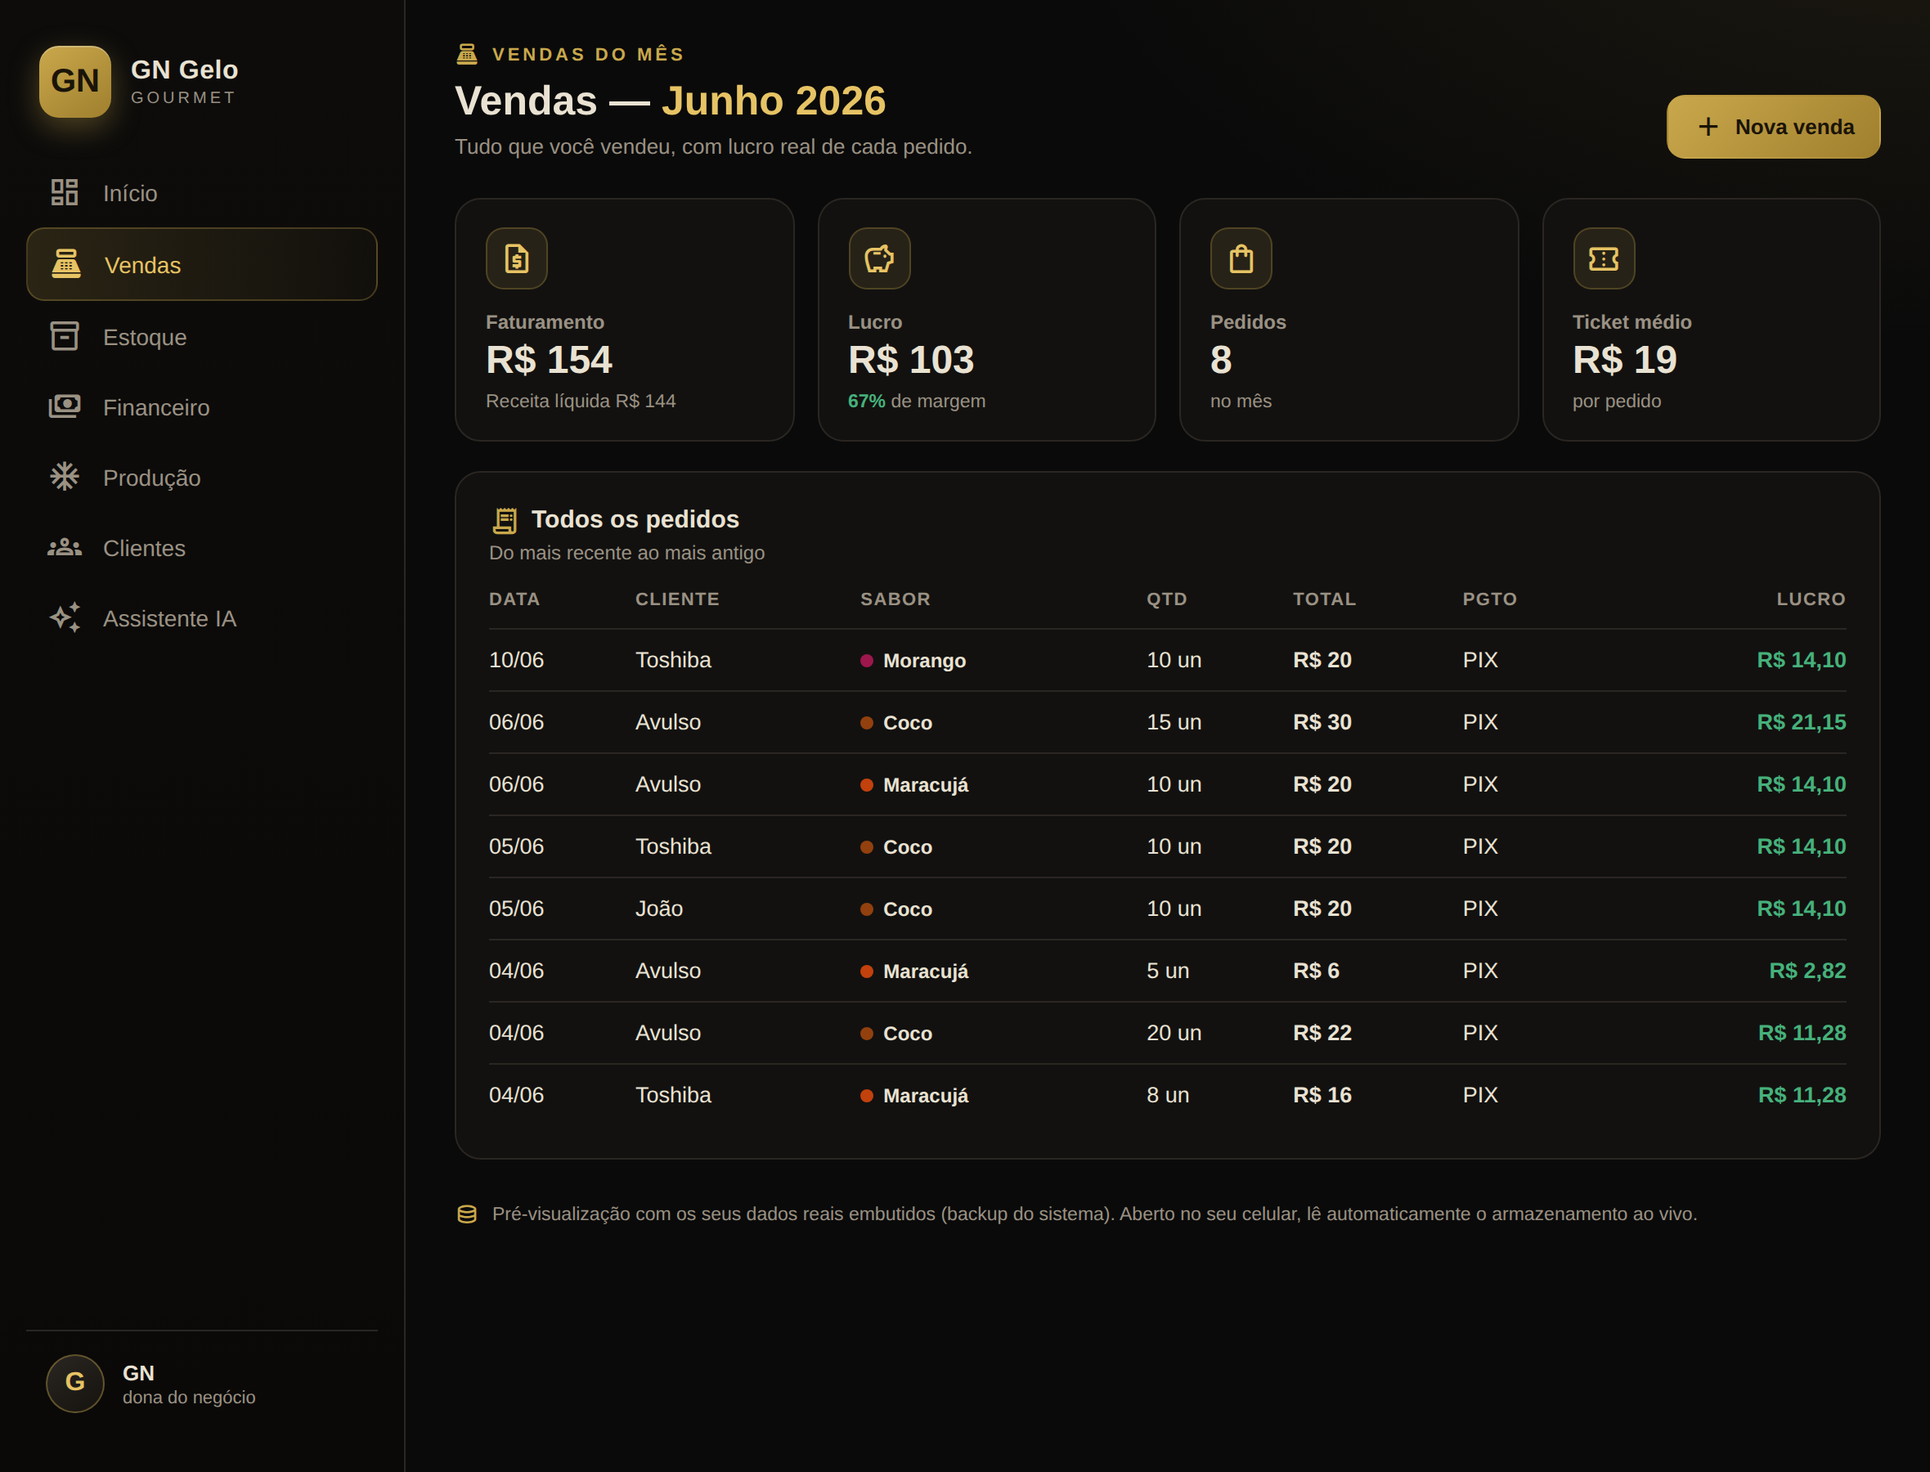
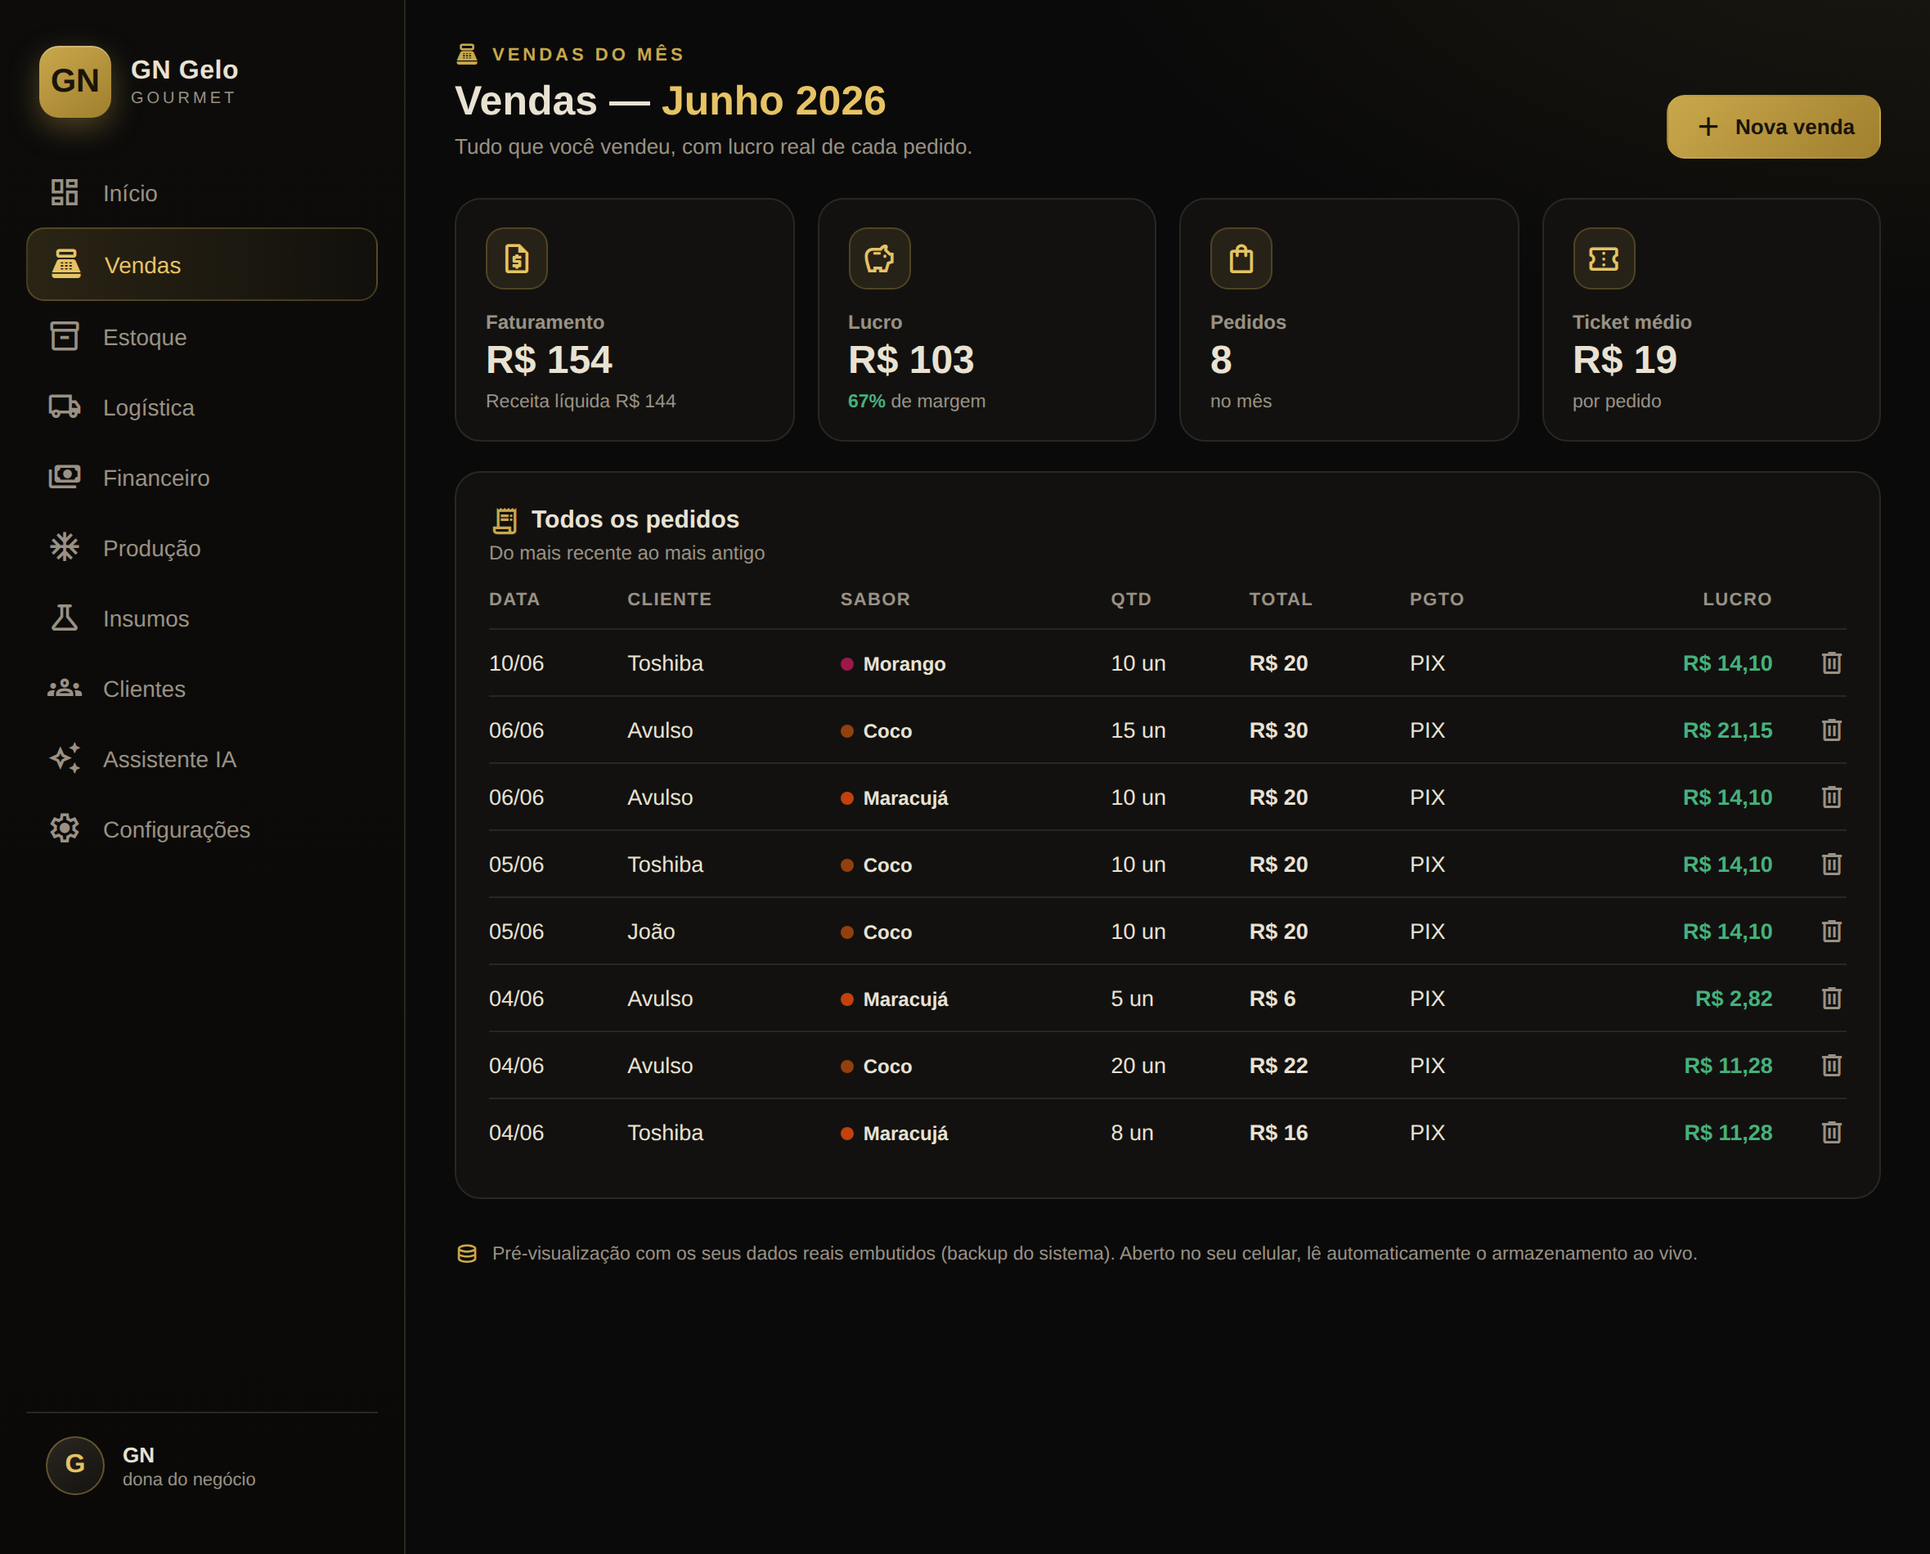
Apagar com devolucao (regra 8/7) + termo 'gelo saborizado' no lugar de picole
- Apagar venda: devolve a qtd ao estoque (regra 8).
- Apagar producao: tira os gelos do estoque e devolve os insumos consumidos (regra 7).
- Apagar gasto: remove do financeiro.
- Botao lixeira nas tabelas de Vendas, Producao e Gastos; confirmacao antes.
- Todo registro de exemplo recebe id (apagar com seguranca).
- Troca 'picole' -> 'gelo saborizado' em toda a interface.

Claude-Session: https://claude.ai/code/session_01RocrFdSgqpqjfRy7x3VDmm

diff --git a/preview-dashboard-premium.html b/preview-dashboard-premium.html
@@ -245,7 +245,7 @@
       </div>
       <div class="card">
         <h3><span class="sym">ac_unit</span>Estoque agora</h3>
-        <div class="csub">Picolés prontos por sabor</div>
+        <div class="csub">Gelos saborizados prontos por sabor</div>
         <div class="stock" id="estoque"></div>
       </div>
     </div>
@@ -292,7 +292,7 @@
       <h3><span class="sym">receipt_long</span>Todos os pedidos</h3>
       <div class="csub">Do mais recente ao mais antigo</div>
       <table>
-        <thead><tr><th>Data</th><th>Cliente</th><th>Sabor</th><th>Qtd</th><th>Total</th><th>Pgto</th><th>Lucro</th></tr></thead>
+        <thead><tr><th>Data</th><th>Cliente</th><th>Sabor</th><th>Qtd</th><th>Total</th><th>Pgto</th><th style="text-align:right">Lucro</th><th></th></tr></thead>
         <tbody id="vv-tab"></tbody>
       </table>
     </div>
@@ -303,19 +303,19 @@
     <div class="top">
       <div>
         <div class="eyebrow"><span class="sym" style="font-size:15px">inventory_2</span> Estoque</div>
-        <h1>Estoque — <b id="es-tot">—</b> picolés</h1>
+        <h1>Estoque — <b id="es-tot">—</b> gelos saborizados</h1>
         <p>Quanto você tem pronto, por sabor, e o valor parado.</p>
       </div>
       <div class="chip"><span class="sym">tune</span> Ajustar estoque</div>
     </div>
     <div class="kpis">
-      <div class="kpi"><div class="ic"><span class="sym">ac_unit</span></div><div class="k-lbl">Total em estoque</div><div class="k-val" id="es-k-tot">—</div><div class="k-foot">picolés prontos</div></div>
+      <div class="kpi"><div class="ic"><span class="sym">ac_unit</span></div><div class="k-lbl">Total em estoque</div><div class="k-val" id="es-k-tot">—</div><div class="k-foot">gelos saborizados prontos</div></div>
       <div class="kpi"><div class="ic"><span class="sym">category</span></div><div class="k-lbl">Sabores ativos</div><div class="k-val" id="es-k-sab">—</div><div class="k-foot">com saldo</div></div>
       <div class="kpi"><div class="ic"><span class="sym">payments</span></div><div class="k-lbl">Valor em estoque</div><div class="k-val" id="es-k-val">—</div><div class="k-foot">custo de produção</div></div>
       <div class="kpi"><div class="ic"><span class="sym">trophy</span></div><div class="k-lbl">Maior estoque</div><div class="k-val" id="es-k-top">—</div><div class="k-foot" id="es-k-topq">—</div></div>
     </div>
     <div class="card">
-      <h3><span class="sym">ac_unit</span>Picolés prontos por sabor</h3>
+      <h3><span class="sym">ac_unit</span>Gelos saborizados prontos por sabor</h3>
       <div class="csub">Barras proporcionais ao saldo</div>
       <div id="es-bars"></div>
     </div>
@@ -378,7 +378,7 @@
       <div class="card">
         <h3><span class="sym">payments</span>Gastos do mês</h3>
         <div class="csub">Saídas registradas</div>
-        <table><thead><tr><th>Descrição</th><th>Tipo</th><th>Valor</th></tr></thead><tbody id="fi-gastos"></tbody></table>
+        <table><thead><tr><th>Descrição</th><th>Tipo</th><th style="text-align:right">Valor</th><th></th></tr></thead><tbody id="fi-gastos"></tbody></table>
       </div>
     </div>
    </div><!-- /view-financeiro -->
@@ -394,9 +394,9 @@
       <div class="chip" style="background:linear-gradient(135deg,var(--gold),#a07f2e);color:#1a1408;border-color:transparent;cursor:pointer" onclick="abrirProducao()"><span class="sym" style="color:#1a1408">add</span> Nova produção</div>
     </div>
     <div class="kpis">
-      <div class="kpi"><div class="ic"><span class="sym">factory</span></div><div class="k-lbl">Produzido no mês</div><div class="k-val" id="pr-tot">—</div><div class="k-foot">picolés</div></div>
+      <div class="kpi"><div class="ic"><span class="sym">factory</span></div><div class="k-lbl">Produzido no mês</div><div class="k-val" id="pr-tot">—</div><div class="k-foot">gelos saborizados</div></div>
       <div class="kpi"><div class="ic"><span class="sym">payments</span></div><div class="k-lbl">Custo total</div><div class="k-val" id="pr-cus">—</div><div class="k-foot">insumos reais</div></div>
-      <div class="kpi"><div class="ic"><span class="sym">sell</span></div><div class="k-lbl">Custo médio</div><div class="k-val" id="pr-med">—</div><div class="k-foot">por picolé</div></div>
+      <div class="kpi"><div class="ic"><span class="sym">sell</span></div><div class="k-lbl">Custo médio</div><div class="k-val" id="pr-med">—</div><div class="k-foot">por gelo saborizado</div></div>
       <div class="kpi"><div class="ic"><span class="sym">batch_prediction</span></div><div class="k-lbl">Lotes</div><div class="k-val" id="pr-n">—</div><div class="k-foot">no mês</div></div>
     </div>
     <div class="card" style="margin-bottom:16px">
@@ -412,7 +412,7 @@
     <div class="card">
       <h3><span class="sym">precision_manufacturing</span>Lotes concluídos</h3>
       <div class="csub">Custo real espelhado dos insumos comprados</div>
-      <table><thead><tr><th>Data</th><th>Sabor</th><th>Qtd</th><th>Custo/un</th><th>Custo total</th></tr></thead><tbody id="pr-tab"></tbody></table>
+      <table><thead><tr><th>Data</th><th>Sabor</th><th>Qtd</th><th>Custo/un</th><th style="text-align:right">Custo total</th><th></th></tr></thead><tbody id="pr-tab"></tbody></table>
     </div>
    </div><!-- /view-producao -->
 
@@ -430,7 +430,7 @@
       <div class="kpi"><div class="ic"><span class="sym">science</span></div><div class="k-lbl">Insumos</div><div class="k-val" id="in-n">—</div><div class="k-foot">cadastrados</div></div>
       <div class="kpi"><div class="ic"><span class="sym">payments</span></div><div class="k-lbl">Valor em estoque</div><div class="k-val" id="in-val">—</div><div class="k-foot">matéria-prima parada</div></div>
       <div class="kpi"><div class="ic" style="background:rgba(212,96,79,.12);border-color:rgba(212,96,79,.3);color:var(--red)"><span class="sym">warning</span></div><div class="k-lbl">Acabando</div><div class="k-val" id="in-baixo">—</div><div class="k-foot">precisam repor</div></div>
-      <div class="kpi"><div class="ic"><span class="sym">ac_unit</span></div><div class="k-lbl">Dá pra produzir</div><div class="k-val" id="in-rende">—</div><div class="k-foot">picolés (estimativa)</div></div>
+      <div class="kpi"><div class="ic"><span class="sym">ac_unit</span></div><div class="k-lbl">Dá pra produzir</div><div class="k-val" id="in-rende">—</div><div class="k-foot">gelos saborizados (estimativa)</div></div>
     </div>
     <div class="card">
       <h3><span class="sym">inventory_2</span>Estoque de insumos</h3>
@@ -551,7 +551,7 @@
       <button class="btn-ghost" onclick="addLinhaP()"><span class="sym" style="font-size:16px;vertical-align:-3px">add</span> Adicionar sabor</button>
       <div class="resumo">
         <div><small>Custo total (insumos)</small><br><b id="p-custo">R$ 0,00</b></div>
-        <div style="text-align:right"><small id="p-itens"></small><br><small id="p-tot">0 picolés</small></div>
+        <div style="text-align:right"><small id="p-itens"></small><br><small id="p-tot">0 gelos saborizados</small></div>
       </div>
     </div>
     <div class="modal-foot"><button class="btn-gold" onclick="salvarProducao()">Salvar produção</button></div>
@@ -687,6 +687,8 @@ const PAPEIS={
 
 const get=(k,d)=>{try{const v=localStorage.getItem("gng_"+k);return v?JSON.parse(v):d;}catch{return d;}};
 const set=(k,v)=>{try{localStorage.setItem("gng_"+k,JSON.stringify(v));localStorage.setItem("gng__local_updated",new Date().toISOString());}catch(e){}};
+// garante id em todo registro de exemplo (pra poder apagar)
+[["vendas",9000001],["producoes",9100001],["gastos",9200001]].forEach(([k,base])=>(SEED[k]||[]).forEach((o,i)=>{if(o.id==null)o.id=base+i;}));
 function getV(){const v=get("vendas",null);return (v&&v.length)?v:SEED.vendas;}
 function getPr(){const v=get("producoes",null);return (v&&v.length)?v:SEED.producoes;}
 function getEst(){const v=get("estoque",null);return v||SEED.estoque;}
@@ -694,11 +696,11 @@ function getG(){const v=get("gastos",null);return (v&&v.length)?v:SEED.gastos;}
 function getEnt(){const v=get("entregas",null);return (v&&v.length)?v:SEED.entregas;}
 function getEquipe(){const v=get("equipe",null);return (v&&v.length)?v:SEED.equipe;}
 function getInsE(){const v=get("insumoEst",null);return (v&&Object.keys(v).length)?v:SEED.insumoEst;}
-// Quanto cada picolé consome de cada insumo (receita real); açúcar entra no custo base
+// Quanto cada gelo saborizado consome de cada insumo (receita real); açúcar entra no custo base
 const RECEITA={"Base/Aroma":2,"Glicose":5,"Goma Xantana":0.08,"Embalagens":1};
 const INSUMOS_DEF={"Base/Aroma":"ml","Glicose":"g","Goma Xantana":"g","Embalagens":"un","Açúcar":"g"};
 const LIMITE_PIC=2500; // abaixo disso o insumo é "acabando"
-const CUSTO_UN=0.5151; // custo de produção por picolé (params reais)
+const CUSTO_UN=0.5151; // custo de produção por gelo saborizado (params reais)
 
 const R=v=>"R$ "+(v||0).toLocaleString("pt-BR",{minimumFractionDigits:2,maximumFractionDigits:2});
 const R0=v=>"R$ "+Math.round(v||0).toLocaleString("pt-BR");
@@ -835,8 +837,8 @@ function renderVendas(){
   document.getElementById("vv-tab").innerHTML=rows.map(v=>`
     <tr><td>${fmtD(v.data)}</td><td>${v.cliente||"—"}</td><td>${tagSabor(v.produto)}</td>
     <td>${v.qtd} un</td><td class="money">${R0(v.bruto)}</td><td>${v.pagto||"PIX"}</td>
-    <td class="money pos">${R(v.lucro)}</td></tr>`).join("")
-    ||'<tr><td colspan="7" class="csub" style="padding-top:14px">Sem vendas no mês.</td></tr>';
+    <td class="money pos" style="text-align:right">${R(v.lucro)}</td><td style="text-align:right">${lixo("delVenda("+v.id+")")}</td></tr>`).join("")
+    ||'<tr><td colspan="8" class="csub" style="padding-top:14px">Sem vendas no mês.</td></tr>';
 }
 
 /* ===== TELA ESTOQUE ===== */
@@ -884,8 +886,8 @@ function renderFinanceiro(){
   document.getElementById("fi-gastos").innerHTML=gMes.sort((a,b)=>(b.data||"").localeCompare(a.data||"")).map(g=>`
     <tr><td>${g.desc||g.descricao||"—"}</td>
     <td><span class="tag" style="color:${g.tipo==='Custo fixo'?'var(--gold-soft)':'var(--muted)'}">${g.tipo||"—"}</span></td>
-    <td class="money" style="color:var(--red)">${R(g.valor)}</td></tr>`).join("")
-    ||'<tr><td colspan="3" class="csub" style="padding-top:14px">Sem gastos no mês.</td></tr>';
+    <td class="money" style="color:var(--red);text-align:right">${R(g.valor)}</td><td style="text-align:right">${g.id!=null?lixo("delGasto("+g.id+")"):""}</td></tr>`).join("")
+    ||'<tr><td colspan="4" class="csub" style="padding-top:14px">Sem gastos no mês.</td></tr>';
 }
 
 /* ===== TELA PRODUÇÃO ===== */
@@ -897,8 +899,8 @@ function renderProducao(){
   T("pr-med",R(tot?cus/tot:0)); T("pr-n",pMes.length);
   document.getElementById("pr-tab").innerHTML=[...pMes].sort((a,b)=>(b.data||"").localeCompare(a.data||"")).map(p=>`
     <tr><td>${fmtD(p.data)}</td><td>${tagSabor(p.sabor)}</td><td>${p.qtd} un</td>
-    <td class="money">${R(p.custoPorUnid)}</td><td class="money">${R((p.qtd||0)*(p.custoPorUnid||0))}</td></tr>`).join("")
-    ||'<tr><td colspan="5" class="csub" style="padding-top:14px">Sem produção no mês.</td></tr>';
+    <td class="money">${R(p.custoPorUnid)}</td><td class="money" style="text-align:right">${R((p.qtd||0)*(p.custoPorUnid||0))}</td><td style="text-align:right">${lixo("delProducao("+p.id+")")}</td></tr>`).join("")
+    ||'<tr><td colspan="6" class="csub" style="padding-top:14px">Sem produção no mês.</td></tr>';
   // Fila de produção (ordens) — ALTA primeiro
   const ordPeso={"ALTA":0,"MÉDIA":1,"BAIXA":2};
   const ordens=[...((get("ordens",null)&&get("ordens",[]).length)?get("ordens",[]):SEED.ordens)]
@@ -1135,7 +1137,7 @@ function salvarVenda(){
   set("vendas",vendas); set("estoque",est); fecharModal(); rerenderAll(); show("vendas");
 }
 
-/* ---- PRODUÇÃO (cria picolés -> entra no estoque) ---- */
+/* ---- PRODUÇÃO (cria gelos saborizados -> entra no estoque) ---- */
 function abrirProducao(){
   document.getElementById("p-data").value=hoje();
   document.getElementById("p-resp").value="Bianca";
@@ -1151,7 +1153,7 @@ function addLinhaP(){
 }
 function calcP(){
   let tot=0; document.querySelectorAll("#p-linhas .linha").forEach(l=>tot+=(+l.querySelector(".p-qtd").value||0));
-  document.getElementById("p-tot").textContent=tot.toLocaleString("pt-BR")+" picolés";
+  document.getElementById("p-tot").textContent=tot.toLocaleString("pt-BR")+" gelos saborizados";
   document.getElementById("p-custo").textContent=R(tot*CUSTO_UN);
 }
 function salvarProducao(){
@@ -1209,7 +1211,7 @@ function salvarGasto(){
 }
 
 /* ===== TELA INSUMOS ===== */
-function rendePicoles(ie){ // quantos picolés dá pra fazer com o insumo limitante
+function rendeGelos(ie){ // quantos gelos saborizados dá pra fazer com o insumo limitante
   let min=Infinity;
   Object.keys(RECEITA).forEach(nome=>{const q=(ie[nome]&&ie[nome].qtd)||0; min=Math.min(min,q/RECEITA[nome]);});
   return isFinite(min)?Math.floor(min):0;
@@ -1220,13 +1222,13 @@ function renderInsumos(){
   const valor=nomes.reduce((a,n)=>a+(ie[n].qtd||0)*(ie[n].custoUnit||0),0);
   const baixo=nomes.filter(n=>RECEITA[n] && (ie[n].qtd||0)/RECEITA[n] < LIMITE_PIC);
   T("in-n",nomes.length); T("in-val",R0(valor)); T("in-baixo",baixo.length);
-  T("in-rende",rendePicoles(ie).toLocaleString("pt-BR"));
+  T("in-rende",rendeGelos(ie).toLocaleString("pt-BR"));
   document.getElementById("in-tab").innerHTML=nomes.map(n=>{
     const i=ie[n], rende=RECEITA[n]?(i.qtd||0)/RECEITA[n]:null;
     const crit=rende!=null&&rende<LIMITE_PIC;
     return `<tr>
       <td><span class="tag"><span class="sym" style="color:var(--gold-soft);font-size:17px">science</span><b>${n}</b></span></td>
-      <td>${(i.qtd||0).toLocaleString("pt-BR")} ${i.un||''}${rende!=null?`<br><span style="font-size:10.5px;color:var(--muted)">≈ ${Math.floor(rende).toLocaleString("pt-BR")} picolés</span>`:''}</td>
+      <td>${(i.qtd||0).toLocaleString("pt-BR")} ${i.un||''}${rende!=null?`<br><span style="font-size:10.5px;color:var(--muted)">≈ ${Math.floor(rende).toLocaleString("pt-BR")} gelos saborizados</span>`:''}</td>
       <td class="money">${R(i.custoUnit||0)}<span style="font-size:10.5px;color:var(--muted)">/${i.un||''}</span></td>
       <td>${i.forn||'—'}</td>
       <td>${crit?'<span class="tag" style="color:var(--red)"><span class="dot" style="background:var(--red)"></span>Acabando</span>':'<span class="tag" style="color:var(--green)"><span class="dot" style="background:var(--green)"></span>OK</span>'}</td>
@@ -1271,6 +1273,32 @@ function salvarInsumo(){
   if(!add){alert("Adicione ao menos um insumo com quantidade e custo.");return;}
   set("insumoEst",ie); set("gastos",gastos); fecharModal(); rerenderAll(); show("insumos");
 }
+
+/* ===== APAGAR (com devolução de estoque/insumo) ===== */
+function delVenda(id){
+  if(!confirm("Apagar esta venda? A quantidade volta para o estoque."))return;
+  const vendas=get("vendas",null)||SEED.vendas.slice();
+  const v=vendas.find(x=>x.id==id); if(!v)return;
+  const est=get("estoque",null)||Object.assign({},SEED.estoque);
+  est[v.produto]=(est[v.produto]||0)+(v.qtd||0); // devolve (regra 8)
+  set("vendas",vendas.filter(x=>x.id!=id)); set("estoque",est); rerenderAll();
+}
+function delProducao(id){
+  if(!confirm("Apagar esta produção? Os gelos saem do estoque e os insumos voltam."))return;
+  const prod=get("producoes",null)||SEED.producoes.slice();
+  const p=prod.find(x=>x.id==id); if(!p)return;
+  const est=get("estoque",null)||Object.assign({},SEED.estoque);
+  est[p.sabor]=Math.max(0,(est[p.sabor]||0)-(p.qtd||0)); // tira os gelos produzidos
+  const ie=get("insumoEst",null)||JSON.parse(JSON.stringify(SEED.insumoEst));
+  Object.keys(RECEITA).forEach(n=>{if(ie[n])ie[n]={...ie[n],qtd:(ie[n].qtd||0)+(p.qtd||0)*RECEITA[n]};}); // devolve insumo (regra 7)
+  set("producoes",prod.filter(x=>x.id!=id)); set("estoque",est); set("insumoEst",ie); rerenderAll();
+}
+function delGasto(id){
+  if(!confirm("Apagar este gasto?"))return;
+  const gastos=get("gastos",null)||SEED.gastos.slice();
+  set("gastos",gastos.filter(x=>x.id!=id)); rerenderAll();
+}
+const lixo=fn=>`<span class="sym" style="font-size:18px;color:var(--muted);cursor:pointer" onclick="${fn}" title="Apagar">delete</span>`;
 
 /* ===== Navegação entre telas ===== */
 function show(view){
